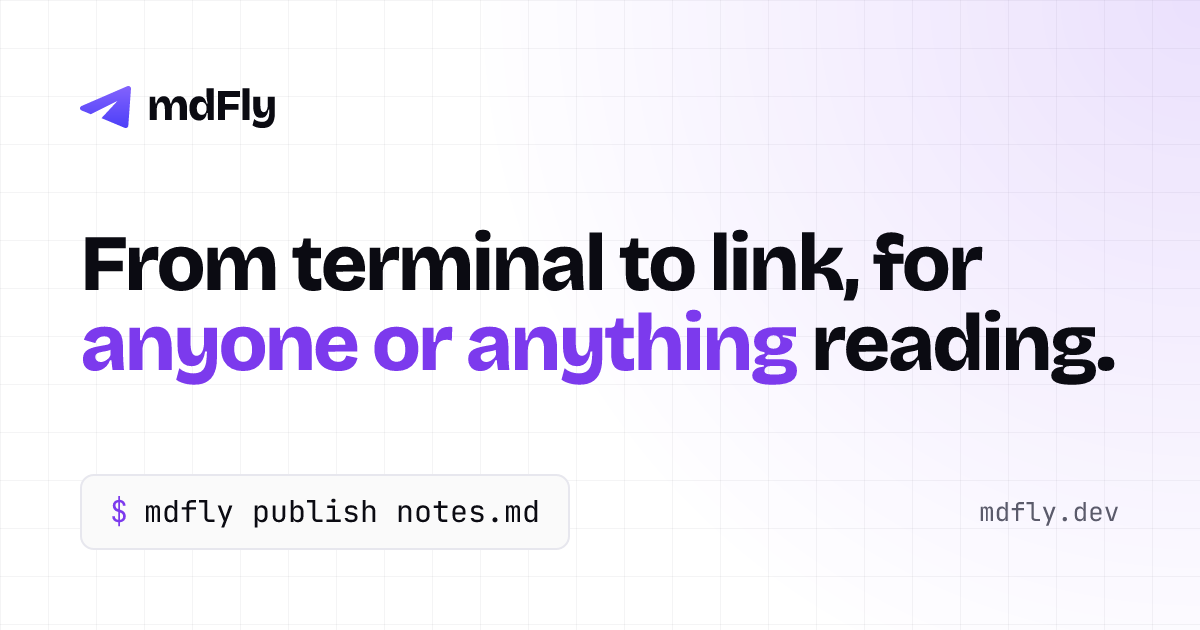
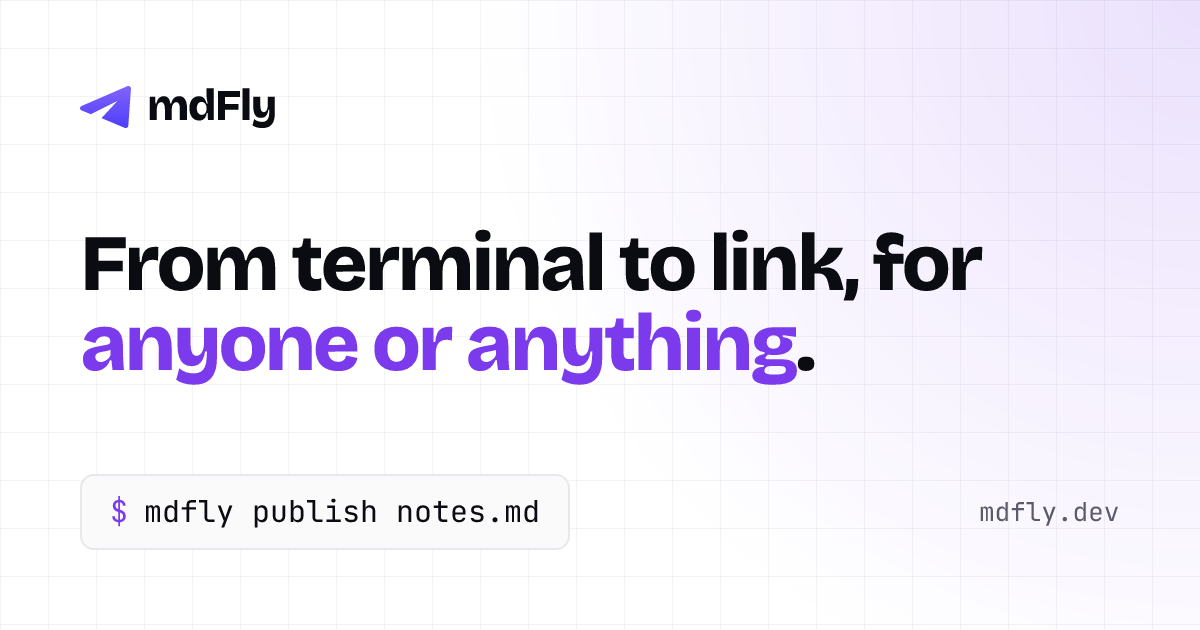
feat(landing): shorten tagline

Changed region(s): [[0.6475, 0.4825, 0.925, 0.6333]]

diff --git a/apps/landing/src/config/site.ts b/apps/landing/src/config/site.ts
@@ -4,7 +4,7 @@ export const docsHref = "/docs";
 export const site = {
   name: "mdFly",
   url: "https://mdfly.dev",
-  tagline: "From terminal to link, for anyone or anything reading.",
+  tagline: "From terminal to link, for anyone or anything.",
   taglineHighlight: "anyone or anything",
   description:
     "Publish markdown and its images in one command. A rendered page for people, plain text for agents.",
